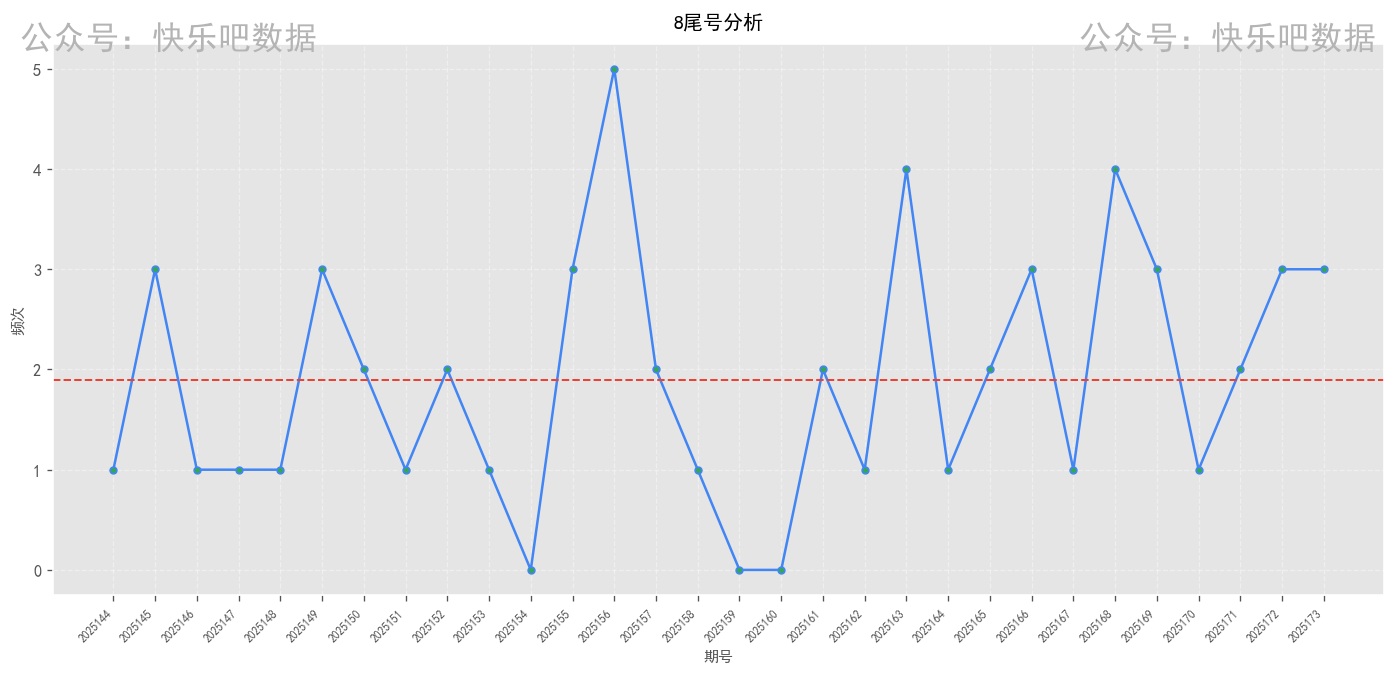
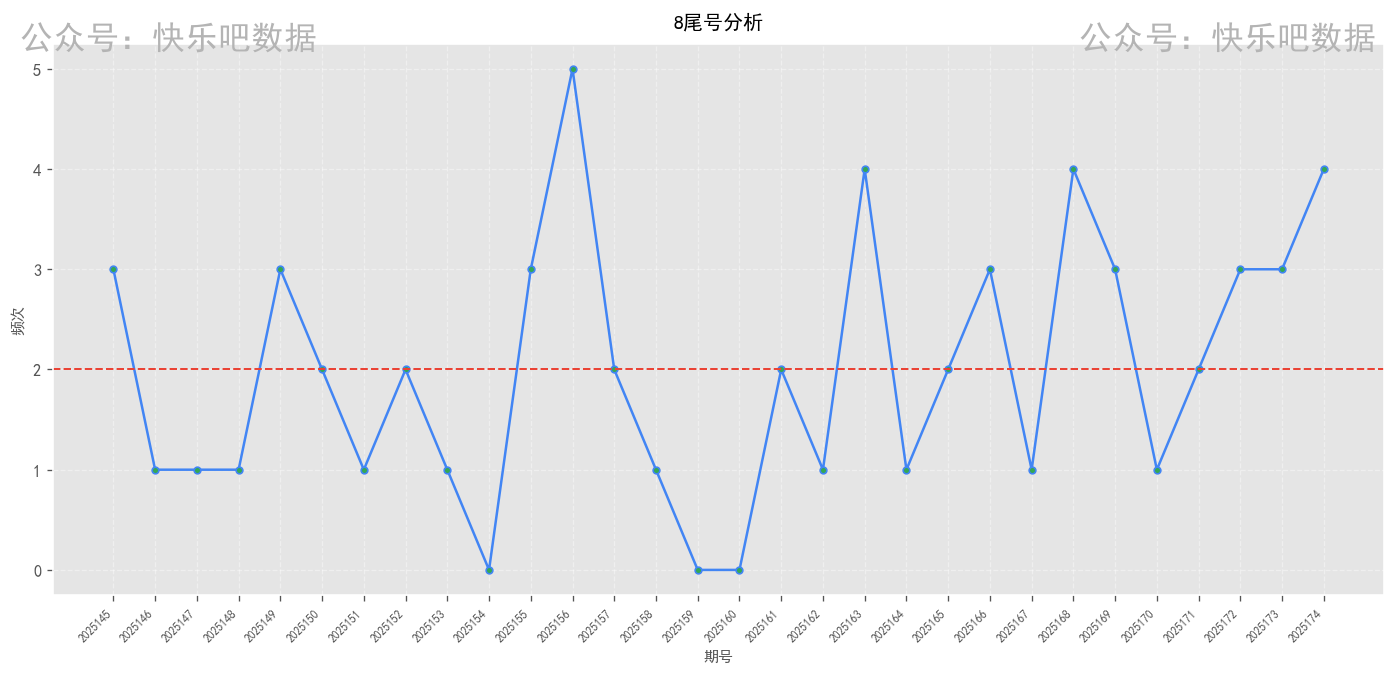
自动提交报告 20250703_2240

diff --git a/快乐8尾号分析项目/数据报告/20250703/report.html b/快乐8尾号分析项目/数据报告/20250703/report.html
@@ -440,7 +440,7 @@
                     <div class="label">尾号区间</div>
                 </div>
                 <div class="overview-card">
-                    <div class="value">2025173</div>
+                    <div class="value">2025174</div>
                     <div class="label">最新期号</div>
                 </div>
                 <div class="overview-card">
@@ -464,11 +464,11 @@
             <div class="stats-summary">
                 <div class="stat-item">
                     <span class="stat-label">历史平均</span>
-                    <span class="stat-value">2.23</span>
+                    <span class="stat-value">2.20</span>
                 </div>
                 <div class="stat-item">
                     <span class="stat-label">近期平均</span>
-                    <span class="stat-value">2.60</span>
+                    <span class="stat-value">2.40</span>
                 </div>
                 <div class="stat-item">
                     <span class="stat-label">最高频次</span>
@@ -486,11 +486,11 @@
             <div class="stats-summary">
                 <div class="stat-item">
                     <span class="stat-label">历史平均</span>
-                    <span class="stat-value">2.33</span>
+                    <span class="stat-value">2.23</span>
                 </div>
                 <div class="stat-item">
                     <span class="stat-label">近期平均</span>
-                    <span class="stat-value">1.80</span>
+                    <span class="stat-value">1.60</span>
                 </div>
                 <div class="stat-item">
                     <span class="stat-label">最高频次</span>
@@ -512,7 +512,7 @@
                 </div>
                 <div class="stat-item">
                     <span class="stat-label">近期平均</span>
-                    <span class="stat-value">2.20</span>
+                    <span class="stat-value">2.40</span>
                 </div>
                 <div class="stat-item">
                     <span class="stat-label">最高频次</span>
@@ -530,11 +530,11 @@
             <div class="stats-summary">
                 <div class="stat-item">
                     <span class="stat-label">历史平均</span>
-                    <span class="stat-value">1.97</span>
+                    <span class="stat-value">2.00</span>
                 </div>
                 <div class="stat-item">
                     <span class="stat-label">近期平均</span>
-                    <span class="stat-value">2.60</span>
+                    <span class="stat-value">2.00</span>
                 </div>
                 <div class="stat-item">
                     <span class="stat-label">最高频次</span>
@@ -552,11 +552,11 @@
             <div class="stats-summary">
                 <div class="stat-item">
                     <span class="stat-label">历史平均</span>
-                    <span class="stat-value">1.77</span>
+                    <span class="stat-value">1.73</span>
                 </div>
                 <div class="stat-item">
                     <span class="stat-label">近期平均</span>
-                    <span class="stat-value">1.40</span>
+                    <span class="stat-value">1.00</span>
                 </div>
                 <div class="stat-item">
                     <span class="stat-label">最高频次</span>
@@ -574,11 +574,11 @@
             <div class="stats-summary">
                 <div class="stat-item">
                     <span class="stat-label">历史平均</span>
-                    <span class="stat-value">1.80</span>
+                    <span class="stat-value">1.77</span>
                 </div>
                 <div class="stat-item">
                     <span class="stat-label">近期平均</span>
-                    <span class="stat-value">1.80</span>
+                    <span class="stat-value">2.00</span>
                 </div>
                 <div class="stat-item">
                     <span class="stat-label">最高频次</span>
@@ -596,7 +596,7 @@
             <div class="stats-summary">
                 <div class="stat-item">
                     <span class="stat-label">历史平均</span>
-                    <span class="stat-value">2.13</span>
+                    <span class="stat-value">2.07</span>
                 </div>
                 <div class="stat-item">
                     <span class="stat-label">近期平均</span>
@@ -622,7 +622,7 @@
                 </div>
                 <div class="stat-item">
                     <span class="stat-label">近期平均</span>
-                    <span class="stat-value">1.80</span>
+                    <span class="stat-value">2.00</span>
                 </div>
                 <div class="stat-item">
                     <span class="stat-label">最高频次</span>
@@ -640,11 +640,11 @@
             <div class="stats-summary">
                 <div class="stat-item">
                     <span class="stat-label">历史平均</span>
-                    <span class="stat-value">1.90</span>
+                    <span class="stat-value">2.00</span>
                 </div>
                 <div class="stat-item">
                     <span class="stat-label">近期平均</span>
-                    <span class="stat-value">2.40</span>
+                    <span class="stat-value">2.60</span>
                 </div>
                 <div class="stat-item">
                     <span class="stat-label">最高频次</span>
@@ -662,11 +662,11 @@
             <div class="stats-summary">
                 <div class="stat-item">
                     <span class="stat-label">历史平均</span>
-                    <span class="stat-value">1.73</span>
+                    <span class="stat-value">1.87</span>
                 </div>
                 <div class="stat-item">
                     <span class="stat-label">近期平均</span>
-                    <span class="stat-value">1.20</span>
+                    <span class="stat-value">1.80</span>
                 </div>
                 <div class="stat-item">
                     <span class="stat-label">最高频次</span>
@@ -690,7 +690,7 @@
         <div class="disclaimer">
             <div class="disclaimer-title"><i class="fas fa-exclamation-circle"></i> 法律声明</div>
             <p>本分析报告基于中国福利彩票官网公开数据制作，仅供历史数据分析与参考，严禁用于赌博或任何违法违规用途。</p>
-            <p>根据中国法律，禁止向未成年人传播彩票相关信息。数据统计周期: 2025144期-2025173期 | 生成时间: 2025-07-03 00:07</p>
+            <p>根据中国法律，禁止向未成年人传播彩票相关信息。数据统计周期: 2025145期-2025174期 | 生成时间: 2025-07-03 22:40</p>
         </div>
 
         <!-- 操作按钮 -->
